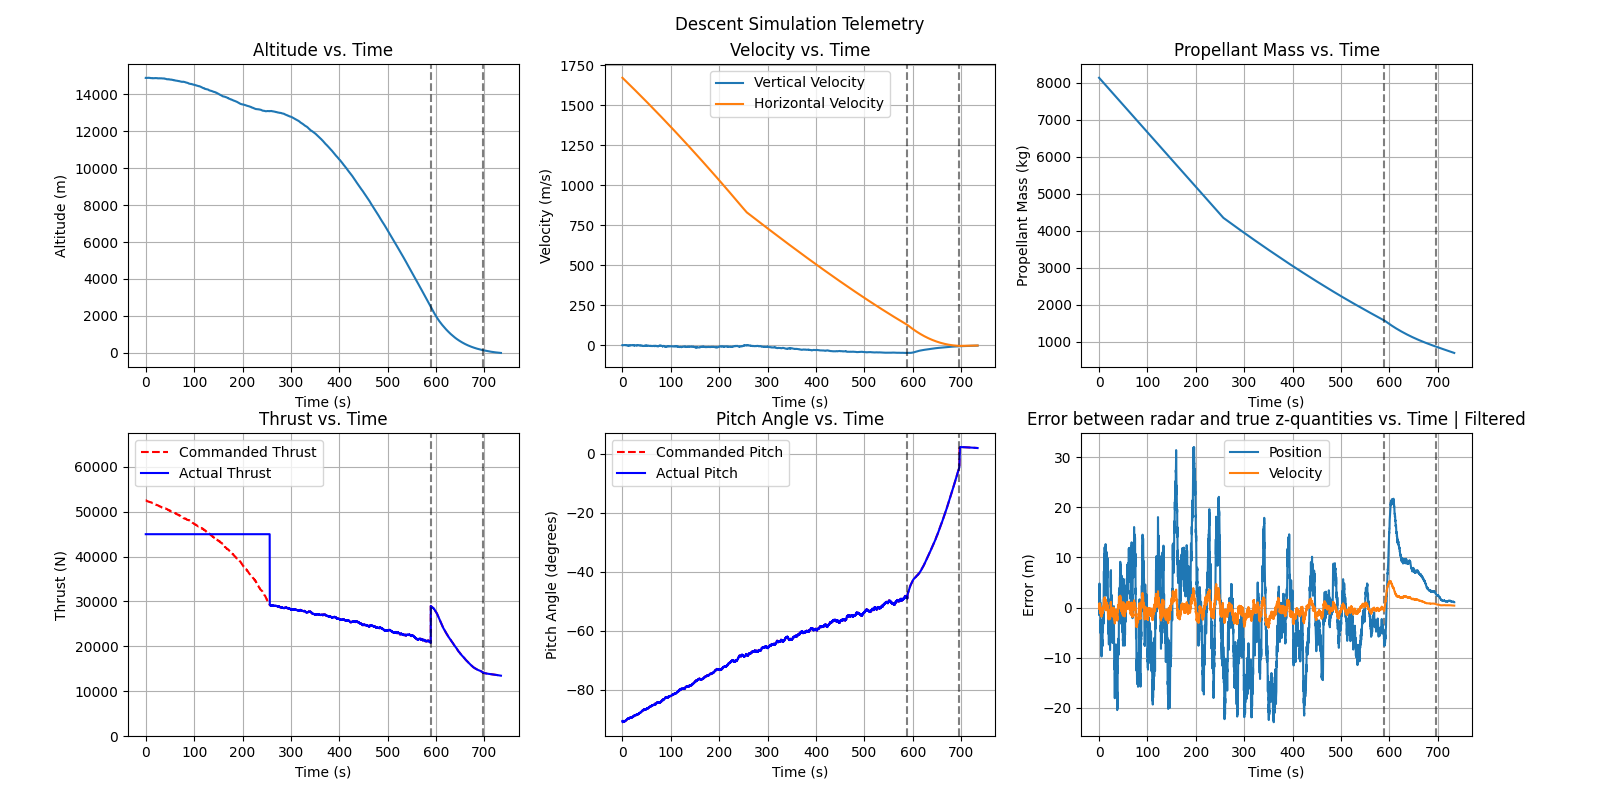
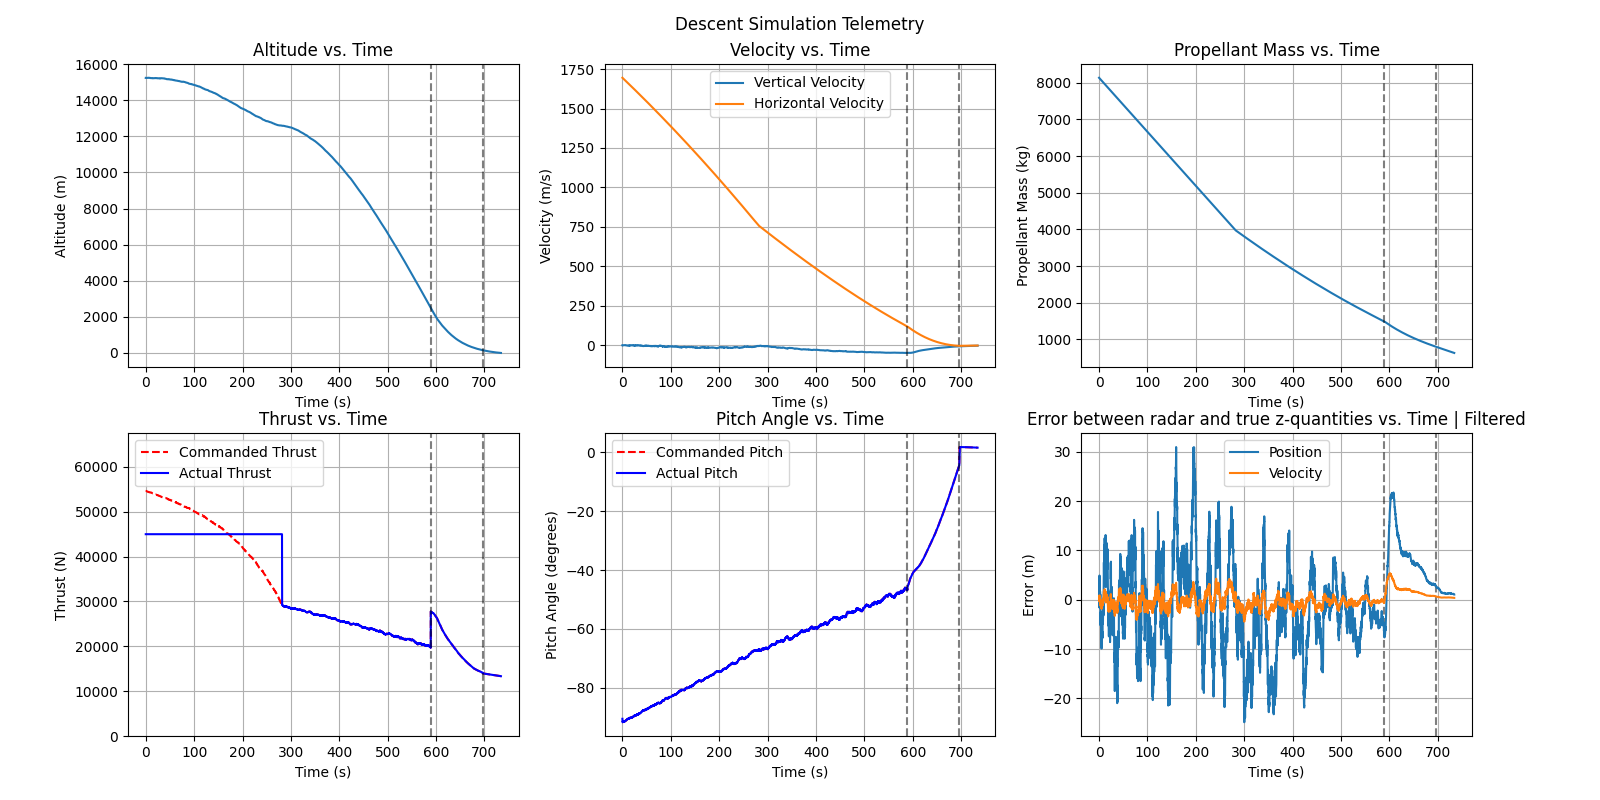
Cleanup code.

diff --git a/main.py b/main.py
@@ -1,21 +1,15 @@
 # External Libraries
 import time
-import config as cfg
 
 # Internal Libraries
+import config as cfg
 from telemetry import Logger
 from gnc.navigation import Navigation
 from gnc.guidance import Guidance
 from gnc.control import Control
 from sim.simulation import Simulation
 
-
 # --- Initial Conditions (From Apollo 11 Event B) ---
-landing = True
-t = 0
-dt = 0.1
-t_max = 1000
-
 nav = Navigation(cfg, 1, 42)
 gd = Guidance()
 ct = Control(cfg, cfg.C0)
@@ -26,6 +20,7 @@ logger = Logger(
         "m",
         "r",
         "dr",
+        "theta",
         "z",
         "dz",
         "x",
@@ -38,29 +33,58 @@ logger = Logger(
     ]
 )
 
-# --- Main Loop ---
-start = time.time()
-while landing:
-    # Navigation Step
-    nav_state = nav.step(dt, sim.state)
 
-    # Guidance Step
-    guid_state = gd.step(dt, nav_state)
+def main_loop(
+    t=0, dt=0.1, t_max=1000, nav=nav, gd=gd, ct=ct, sim=sim, logger=logger
+) -> tuple[float, float, float]:
+    """
+    Main loop for the simulation. This function steps through the navigation, guidance,
+    control, logging, and simulation steps until the lander reaches the surface of the
+    moon or the maximum time is exceeded.
 
-    # Control Step
-    ctrl_state = ct.step(dt, nav_state, guid_state)
+    Parameters:
+    t (float): The starting time for the simulation. Defaults to 0.
+    dt (float): The time step for the simulation. Defaults to 0.1.
+    t_max (float): The maximum time for the simulation. Defaults to 1000.
+    nav (Navigation): The navigation object.
+    gd (Guidance): The guidance object.
+    ct (Control): The control object.
+    sim (Simulation): The simulation object.
+    logger (Logger): The logger object.
 
-    # Logging
-    logger.log(t, nav_state, guid_state, ctrl_state, sim.state)
+    Returns:
+    tuple: A tuple containing the final time, the start time, and the end time.
+    """
+    landing = True
+    start = time.time()
+    while landing:
+        # Navigation Step
+        nav_state = nav.step(dt, sim.state)
 
-    # Simulation Step
-    if sim.state.r - cfg.r_moon < 0 or t > t_max:
-        landing = False
-    sim.step(dt, ctrl_state)
+        # Guidance Step
+        guid_state = gd.step(dt, nav_state)
 
-    t += dt
-end = time.time()
+        # Control Step
+        ctrl_state = ct.step(dt, nav_state, guid_state)
 
-# --- Logging and Plotting ---
-logger.output_stats(t, start, end, sim.state)
-logger.plot()
+        # Logging
+        logger.log(t, nav_state, guid_state, ctrl_state, sim.state)
+
+        # Simulation Step
+        if sim.state.r - cfg.r_moon < 0 or t > t_max:
+            landing = False
+        sim.step(dt, ctrl_state)
+
+        t += dt
+    end = time.time()
+
+    return t, start - end, landing
+
+
+if __name__ == "__main__":
+    t, t_elapsed, _ = main_loop()
+
+    # --- Logging and Plotting ---
+    logger.output_stats(t, t_elapsed, sim.state)
+    logger.plot_telemetry()
+    logger.plot_trajectory()

diff --git a/telemetry.py b/telemetry.py
@@ -20,6 +20,7 @@ class Logger:
         self.records["m"].append(plr.m)
         self.records["r"].append(plr.r)
         self.records["dr"].append(plr.dr)
+        self.records["theta"].append(plr.theta)
         self.records["z"].append(lvlh.z)
         self.records["dz"].append(lvlh.dz)
         self.records["x"].append(lvlh.x)
@@ -37,22 +38,33 @@ class Logger:
                 time_stages.append(self.records["t"][i])
         return time_stages
 
-    def output_stats(self, t: float, start: float, end: float, sim: PolarState):
-        real_t = end - start
+    def output_stats(self, t: float, t_elapsed: float, sim: PolarState):
         delta_V = cfg.Isp * cfg.G_earth * np.log(cfg.m0 / sim.m)
 
         # --- Printing Results ---
         print("--- Results ---")
         print(f"Time: {t:.2f} s")
-        print(f"Real Time: {real_t:.2f} s")
-        print(f"Effective sim speed (x real time) {t / real_t:.2f}")
+        print(f"Real Time: {t_elapsed:.2f} s")
+        print(f"Effective sim speed (x real time) {t / t_elapsed:.2f}")
         print(f"Final Altitude: {sim.r - cfg.r_moon:.2f} m")
         v_final = np.sqrt(sim.dr**2 + (sim.dtheta * sim.r) ** 2)
         print(f"Final Velocity: {v_final:.2f} m/s")
         print(f"Delta-V: {delta_V:.2f} m/s")
         print(f"--- Safe Landing: {v_final < 5} ---")
 
-    def plot(self):
+    def plot_trajectory(self):
+        plt.plot(np.rad2deg(self.records["theta"]), self.records["z"])
+        plt.xlabel("Theta (rad)")
+        plt.ylabel("Altitude (m)")
+        plt.grid(True)
+        plt.show()
+
+    def plot_telemetry(self):
+        r_array = np.array(self.records["r"])
+        dr_array = np.array(self.records["dr"])
+        z_array = np.array(self.records["z"])
+        dz_array = np.array(self.records["dz"])
+
         # --- Plotting ---
         fig, axs = plt.subplots(2, 3, figsize=(16, 8))
         fig.suptitle("Descent Simulation Telemetry")
@@ -123,11 +135,6 @@ class Logger:
             for ax_row in axs:
                 for ax in ax_row:
                     ax.axvline(i, color="k", linestyle="--", alpha=0.5)
-
-        r_array = np.array(self.records["r"])
-        dr_array = np.array(self.records["dr"])
-        z_array = np.array(self.records["z"])
-        dz_array = np.array(self.records["dz"])
 
         axs[1, 2].plot(
             self.records["t"],

diff --git a/config.py b/config.py
@@ -31,14 +31,14 @@ m_empty = 7_201  # Dry mass of the vehicle (kg)
 m_prop0 = 8_134  # Initial propellant mass (kg)
 m0 = m_prop0 + m_empty  # Total initial wet mass (kg)
 alpha0 = 0  # Initial pitch angle (rad)
-dalpha_max = 0.10472  # Maximum gimbal/slew rate (rad/s) (~6 deg/s)
+dalpha_max = np.deg2rad(6)  # Maximum gimbal/slew rate (rad/s)
 
 # --- Lunar Module (LM) Initial Conditions ---
 S0 = PolarState(
-    r=14_878 + r_moon,
+    r=15_240 + r_moon,
     dr=0,
     theta=0,
-    dtheta=np.sqrt(mu / (r_moon + 14_878)) / (r_moon + 14_878),
+    dtheta=1695.043855 / (15_240 + r_moon),
     m=m0,
 )
 
